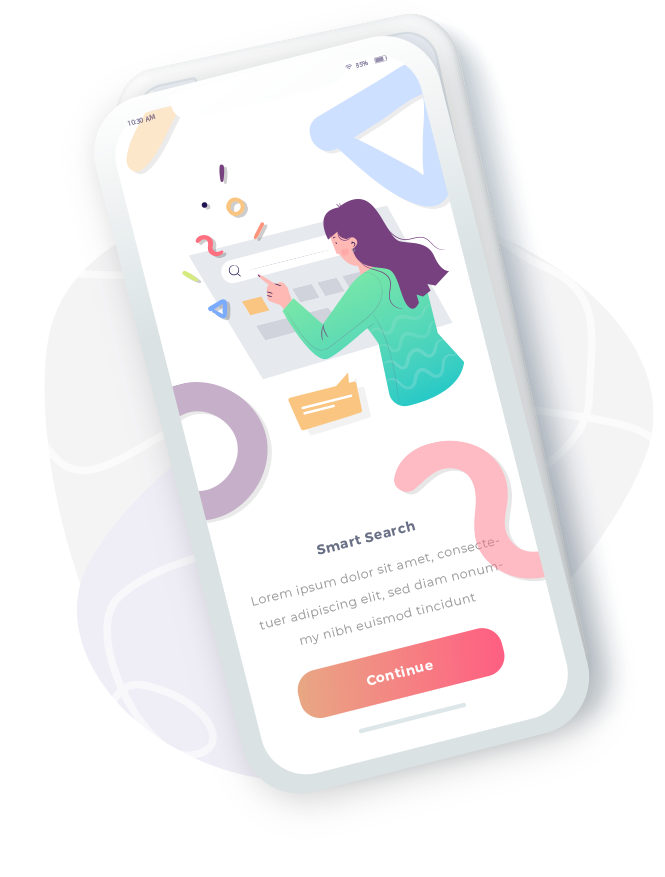
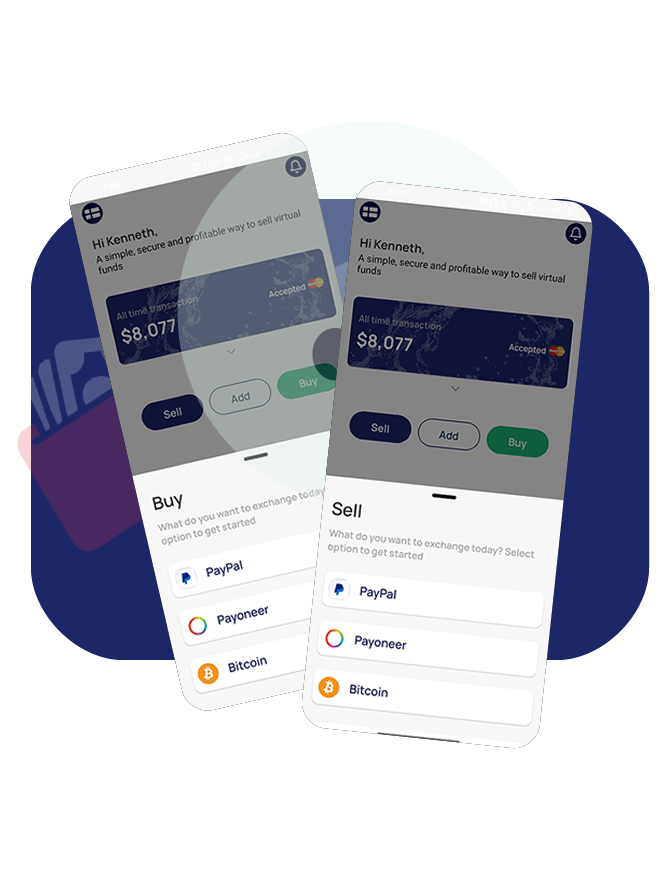
registration number added

diff --git a/src/pages/Home.js b/src/pages/Home.js
@@ -31,13 +31,13 @@ const Home = () => {
 
     window.addEventListener('load', function() {
         // eslint-disable-next-line no-undef
-        GLightbox({
-            'href': 'https://www.youtube.com/watch?v=r44RKWyfcFw&fbclid=IwAR21beSJORalzmzokxDRcGfkZA1AtRTE__l5N4r09HcGS5Y6vOluyouM9EM',
-            'type': 'video',
-            'source': 'youtube', //vimeo, youtube or local
-            'width': 900,
-            'autoplayVideos': true,
-        });
+        // GLightbox({
+        //     'href': 'https://www.youtube.com/watch?v=r44RKWyfcFw&fbclid=IwAR21beSJORalzmzokxDRcGfkZA1AtRTE__l5N4r09HcGS5Y6vOluyouM9EM',
+        //     'type': 'video',
+        //     'source': 'youtube', //vimeo, youtube or local
+        //     'width': 900,
+        //     'autoplayVideos': true,
+        // });
     });
 
   return (
@@ -207,12 +207,12 @@ const Home = () => {
                     
                     <div className="intro-video-play">
                       <div className="play-thumb wow zoomIn" data-wow-delay=".2s">
-                       <a
+                       {/* <a
                           href="https://www.youtube.com/watch?v=r44RKWyfcFw&amp;fbclid=IwAR21beSJORalzmzokxDRcGfkZA1AtRTE__l5N4r09HcGS5Y6vOluyouM9EM"
                           className="glightbox video"
                         >
                           <i className="lni lni-play"></i>
-                        </a>
+                        </a> */}
                       </div>
                     </div>
                     <br/>

diff --git a/src/pages/About.js b/src/pages/About.js
@@ -101,7 +101,7 @@ const About = () => {
             <div className="row align-items-center">
               <div className="col-lg-5 col-12">
                 <div className="image wow fadeInLeft" data-wow-delay=".3s">
-                  <img src="assets/images/features/feature-img.png" alt="#" />
+                  <img src="assets/images/features/feature-img2.png" alt="#" />
                 </div>
               </div>
               <div className="col-lg-7 col-12">
@@ -176,7 +176,7 @@ As we continue to grow, our journey is shaped by the relationships we build, the
               </div>
               <div className="col-lg-5 col-12">
                 <div className="image wow fadeInLeft" data-wow-delay=".3s">
-                  <img src="assets/images/features/feature-img.png" alt="#" />
+                  <img src="assets/images/features/feature-img3.png" alt="#" />
                 </div>
               </div>
             </div>

diff --git a/src/pages/Services.js b/src/pages/Services.js
@@ -51,7 +51,7 @@ const Services = () => {
             <div className="row align-items-center">
               <div className="col-lg-5 col-12">
                 <div className="image wow fadeInLeft" data-wow-delay=".3s">
-                  <img src="assets/images/features/feature-img.png" alt="#" />
+                  <img src="assets/images/features/feature-img4.png" alt="#" />
                 </div>
               </div>
               <div className="col-lg-7 col-12">

diff --git a/src/component/Footer.js b/src/component/Footer.js
@@ -162,7 +162,7 @@ const FooterNote = () => {
                           <Link to={"/privacy-policy"}>Privacy Policy</Link>
                         </li>
                         <li>
-                          <Link to={"/privacy-policy"}>Reg: <strong>95490549959</strong></Link>
+                          <Link to={"/privacy-policy"}>Reg: <strong>7046583</strong></Link>
                         </li>
                       </ul>
                     </div>
